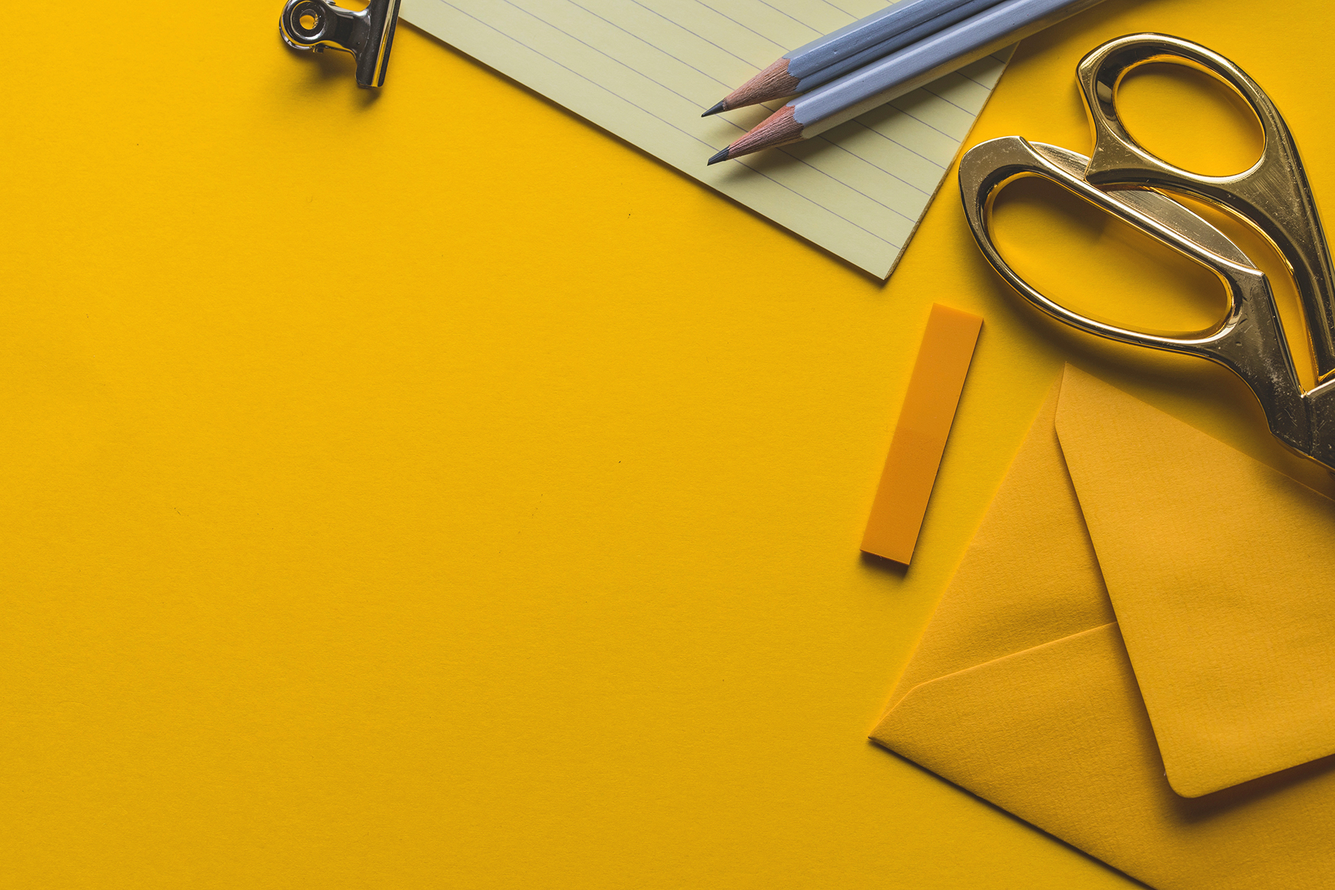
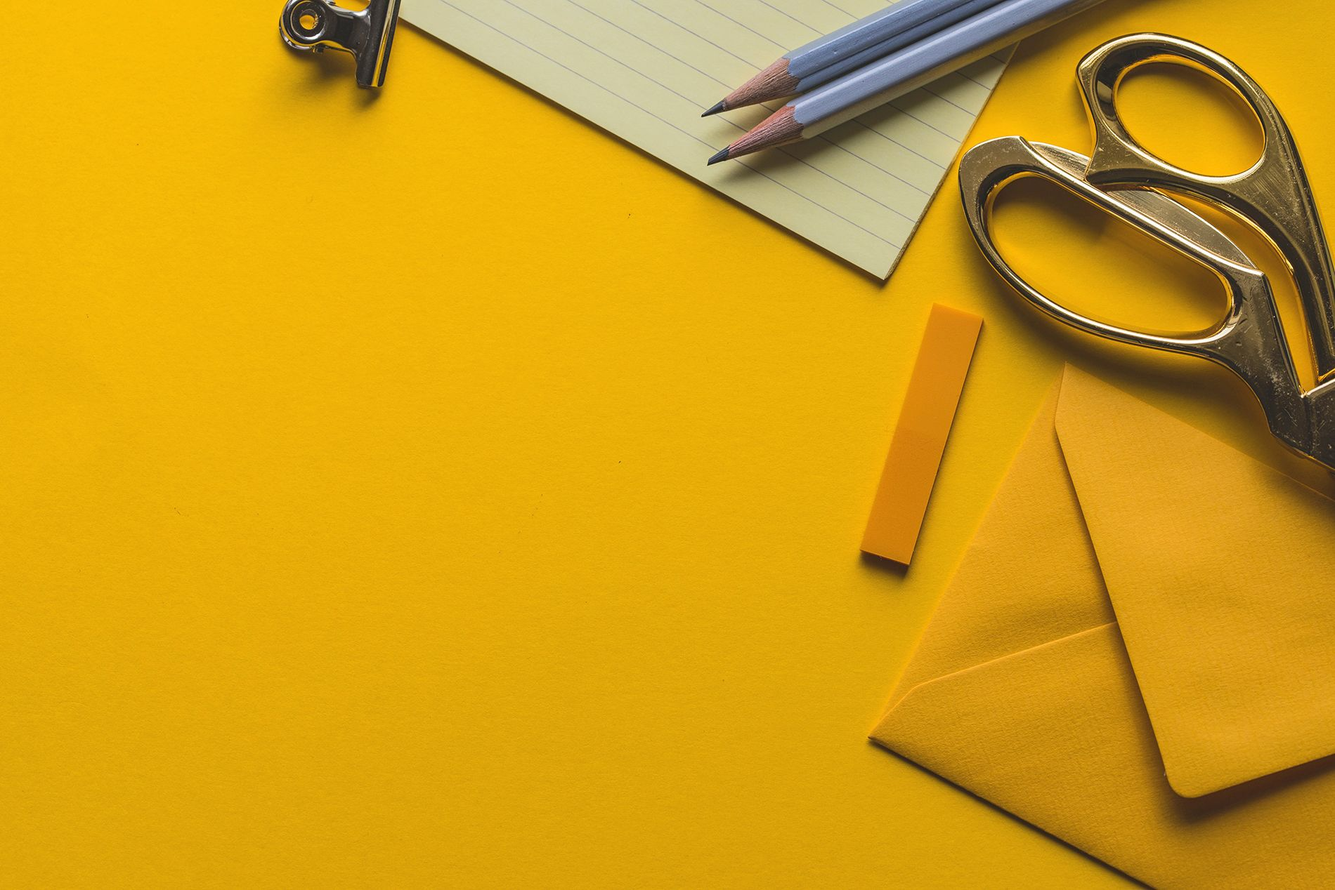
images downsized

diff --git a/templates/stylish-portfolio_template/sections/callout.html b/templates/stylish-portfolio_template/sections/callout.html
@@ -3,8 +3,8 @@
             <div class="container text-center">
                 <h2 class="mx-auto mb-5">
                     {{section.content.text.part_1}}
-                    <em>{{section.content.inline_em}}</em>
-                    {{section.content.part_2}}
+                    <em>{{section.content.text.inline_em}}</em>
+                    {{section.content.text.part_2}}
                 </h2>
                 <a class="{{section.content.btn_class}}" href="{{section.btn_href}}">{{section.content.btn_text}}</a>
             </div>

diff --git a/templates/stylish-portfolio_template/sections/portfolio.html b/templates/stylish-portfolio_template/sections/portfolio.html
@@ -3,7 +3,7 @@
         <section class="content-section" id="{{section.content.id}}">
             <div class="container">
                 <div class="content-section-heading text-center">
-                    <h3 class="text-secondary mb-0">{{sextion.content.heading}}</h3>
+                    <h3 class="text-secondary mb-0">{{section.content.heading}}</h3>
                     <h2 class="mb-5">{{section.content.subheading}}</h2>
                 </div>
                 <div class="row no-gutters">
